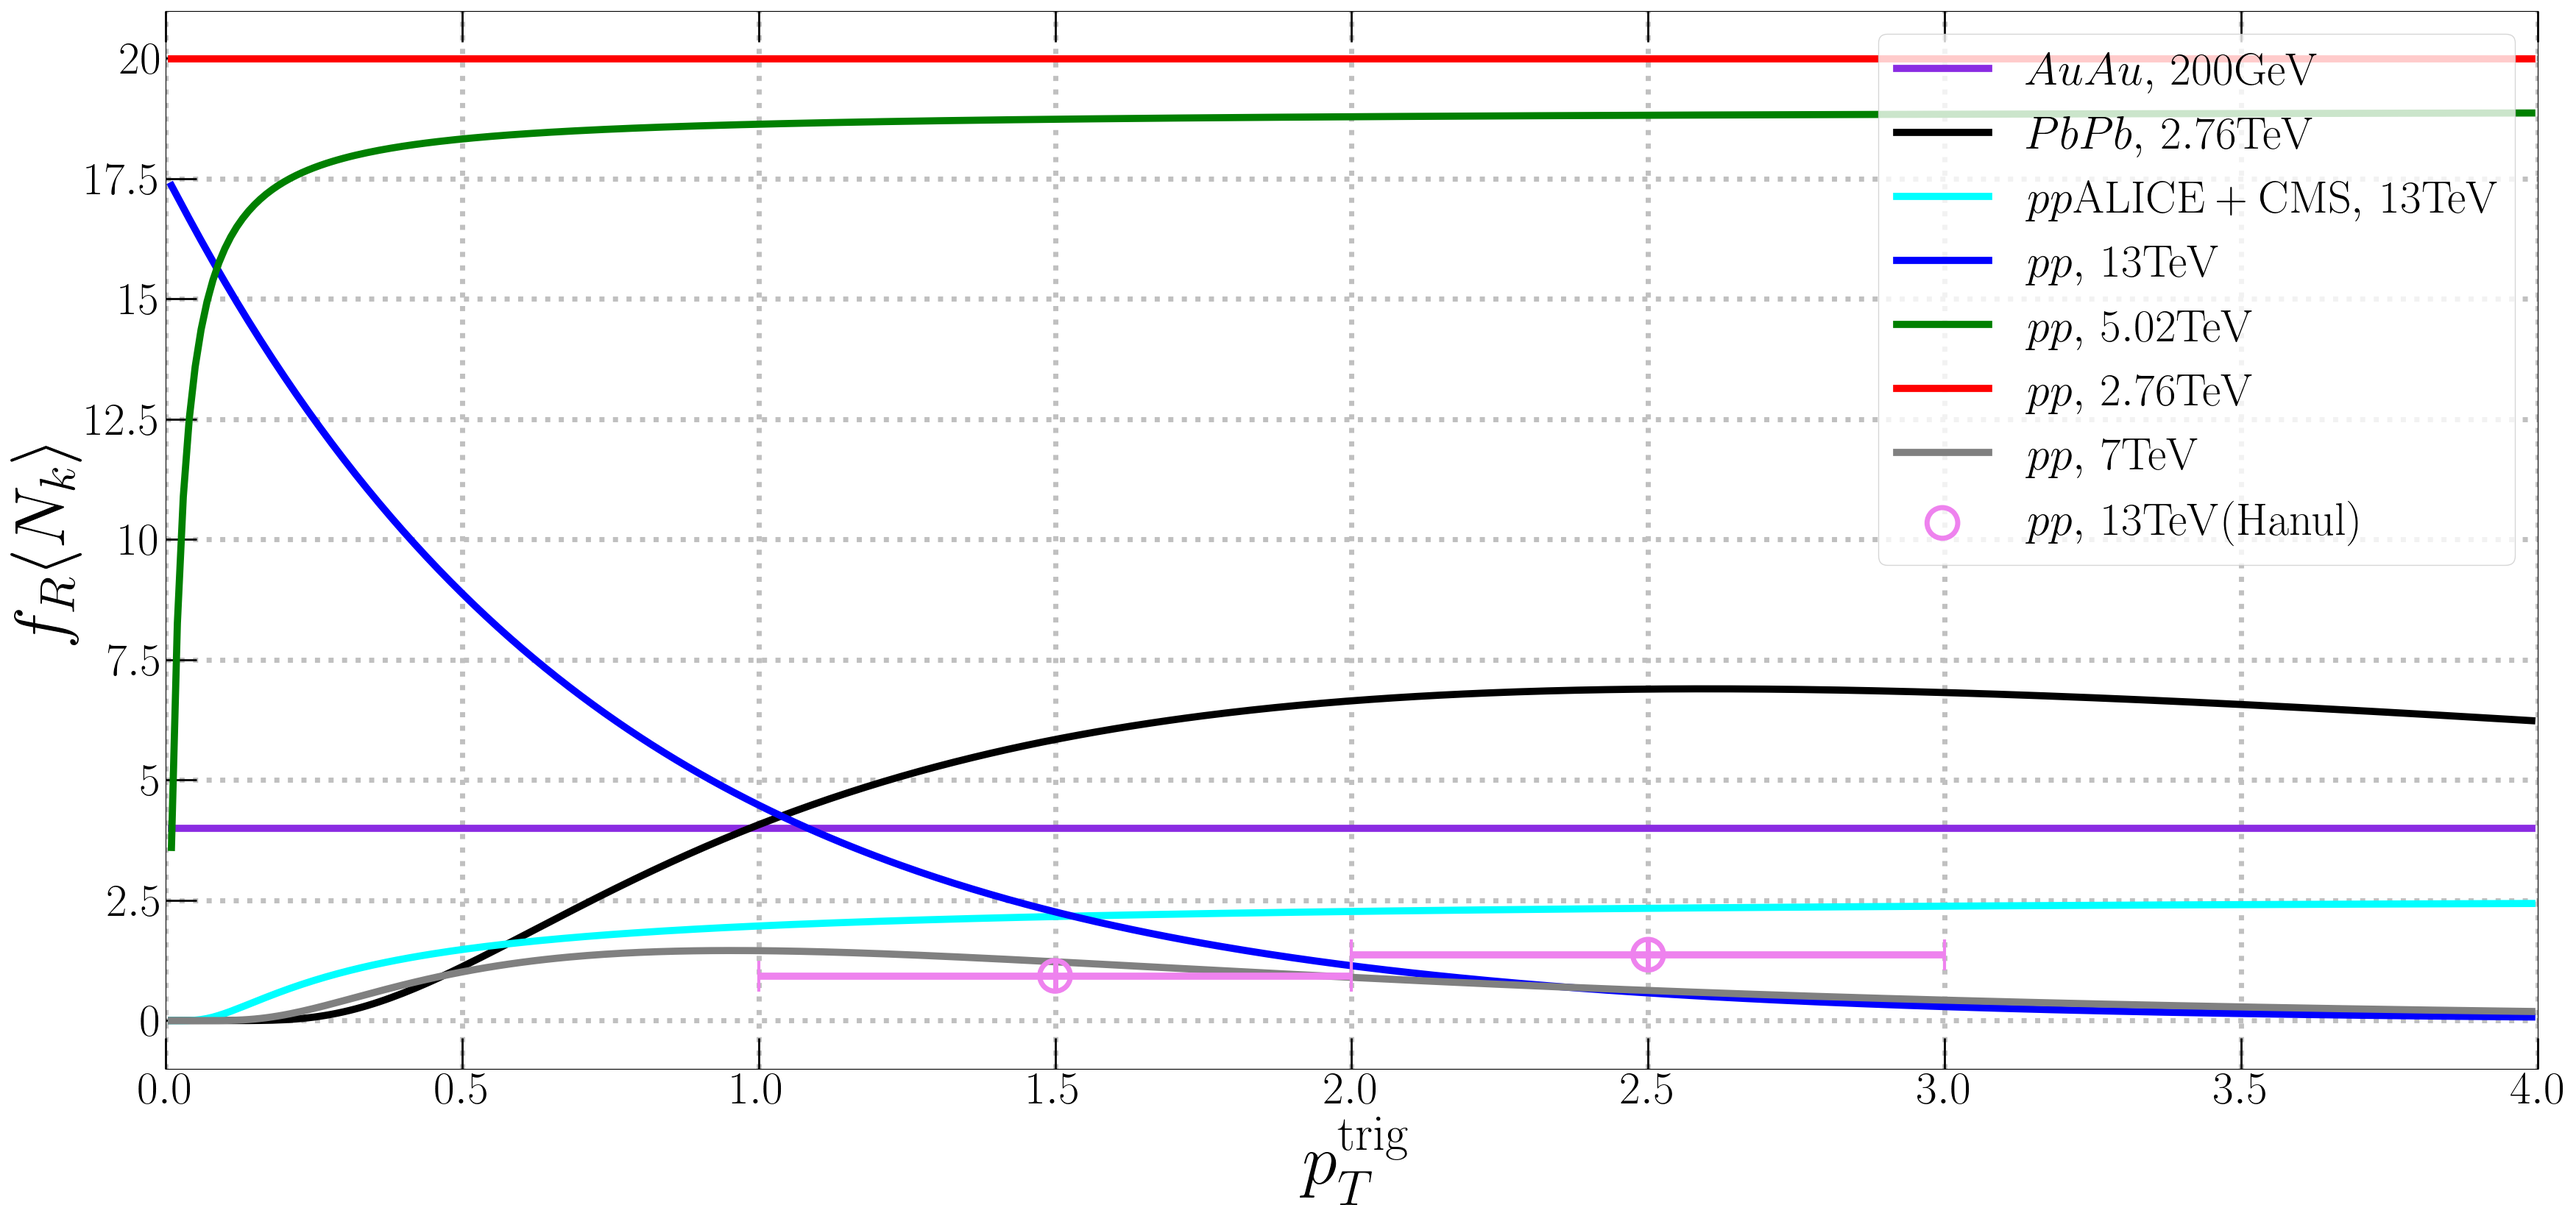
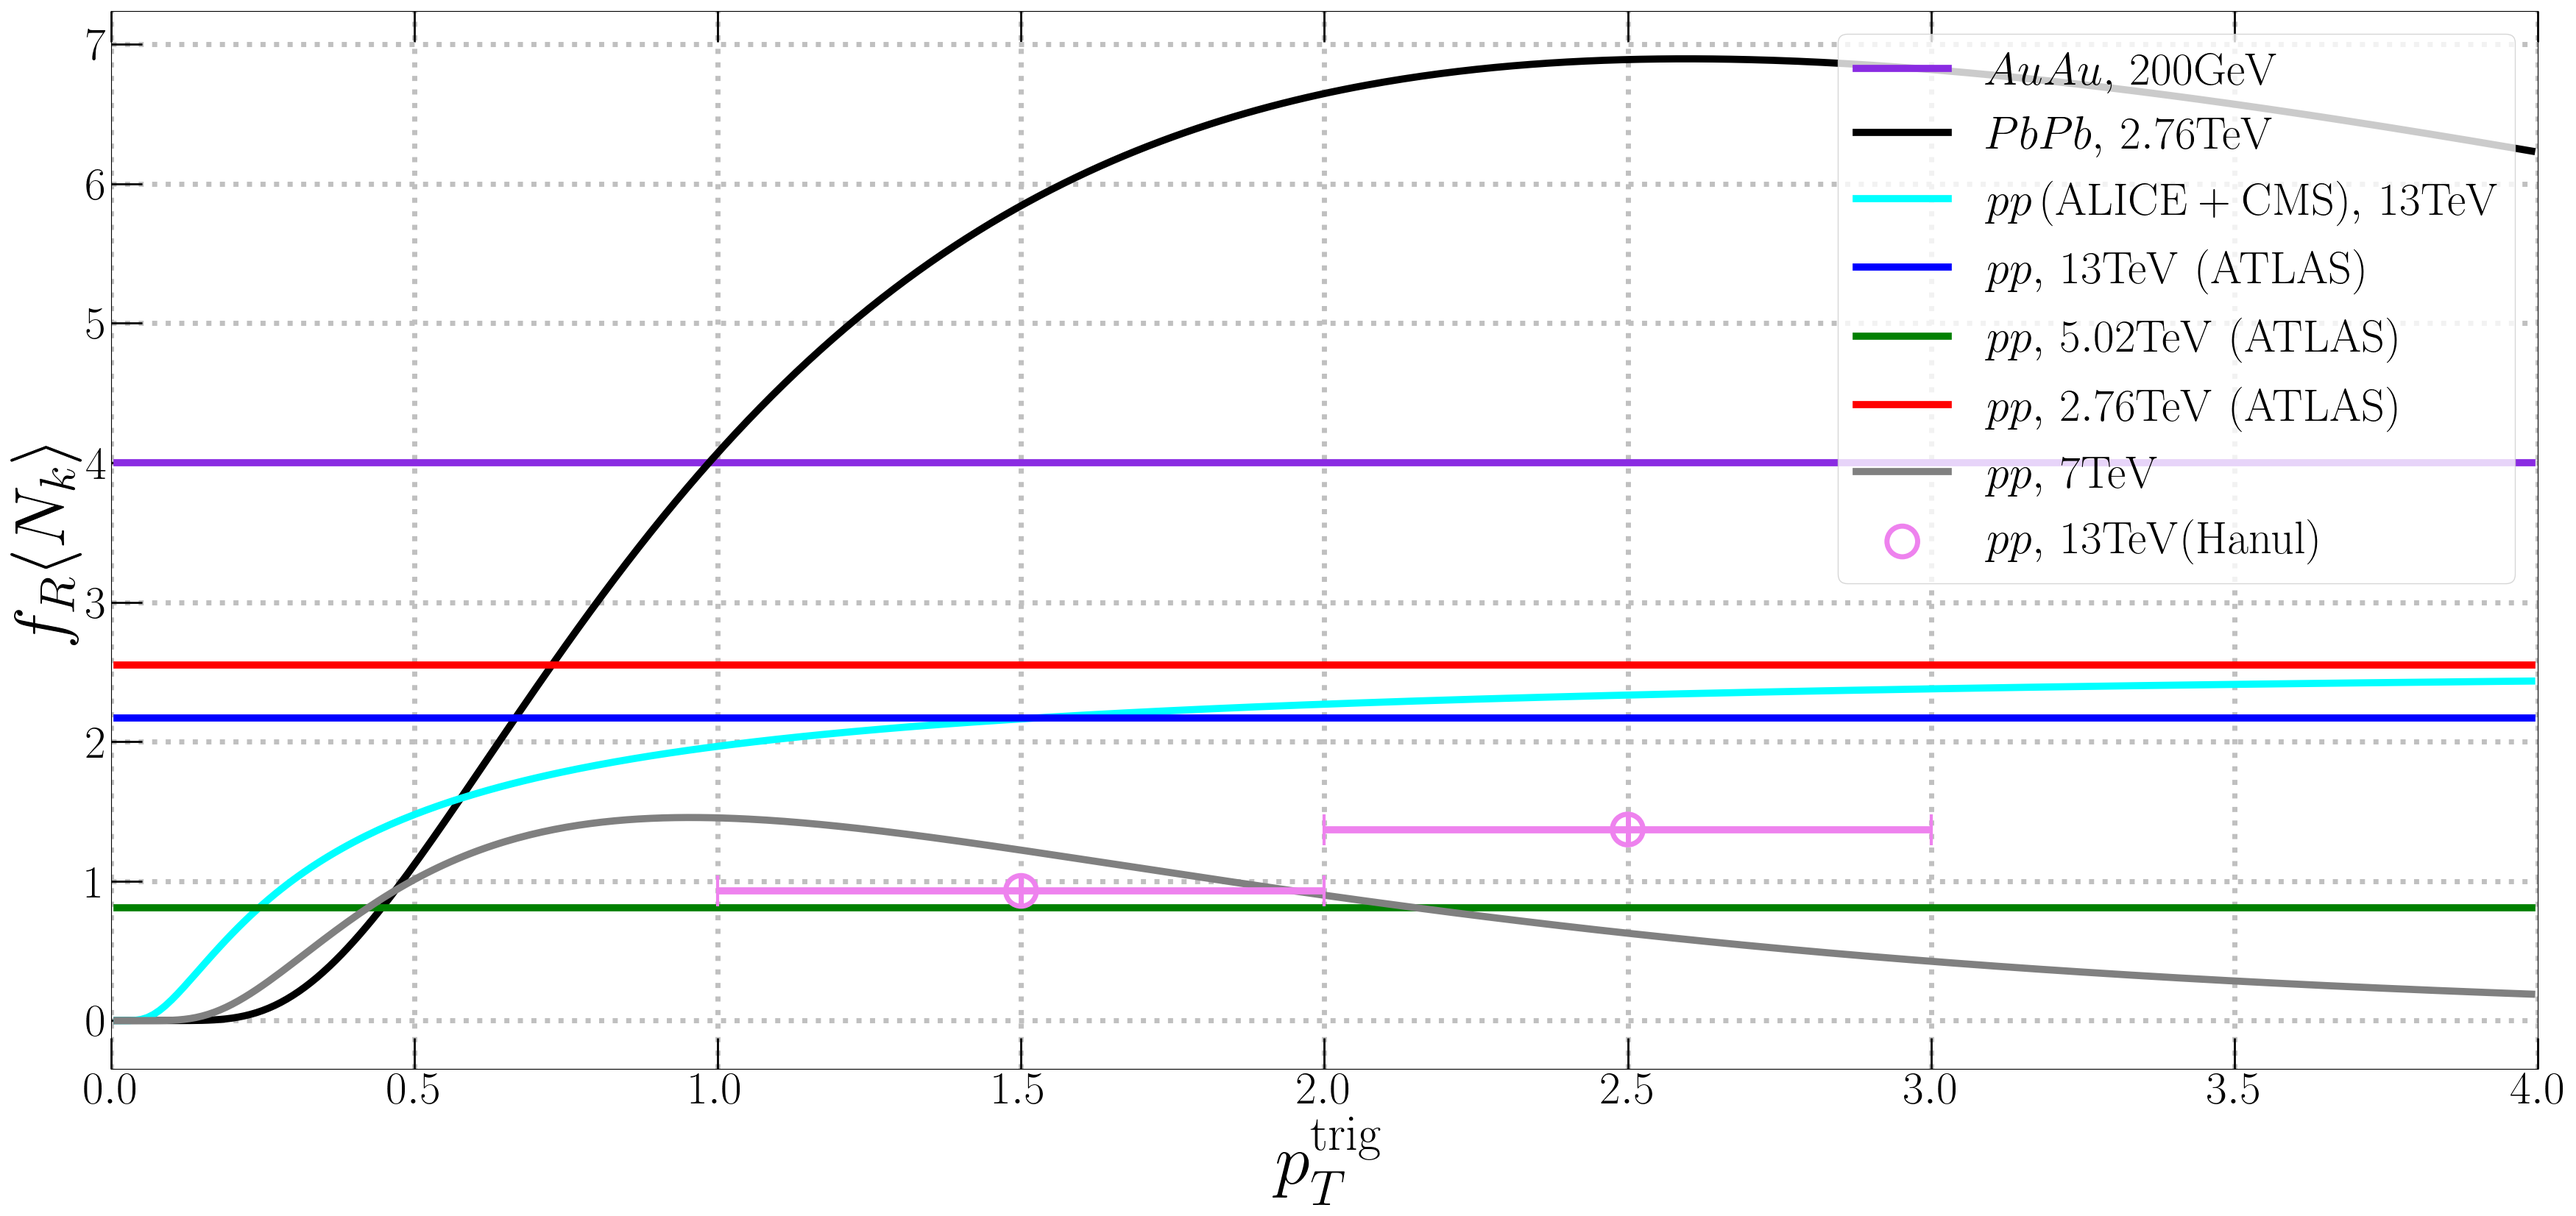
ATLAS의  fRNk를 상수로 두기
뿐만 아니라, boundary, initial 조정하기

diff --git a/main_class.py b/main_class.py
@@ -221,8 +221,8 @@ def datacut():
             phi_07TeV_ptdep_fitting[i] = phi_07TeV_ptdep_fitting[i][len(phi_07TeV_ptdep_fitting[i])-argmin-1:argmin+1]
 datacut()
 
-total_boundary = ((0., 0., 0, 0, 0),(5, 3., 20, 10, 10))
-total_initial = (1., 0.5, 2, 3, 0)
+total_boundary = ((0.5, .5, 0, 0, 0),(3, 2., 4, 1e-10, 1e-10))
+total_initial = (.7, 1., 1.5, 0, 0)
 '''Fitting 13TeV data'''
 def fit_13tev():
     ptf = [(1, 2), (2, 3), (3, 4), (1, 2), (2, 3), (3, 4)]
@@ -297,12 +297,12 @@ def fit_cmenerg():
 # fit_13tev()
 # fit_7tev()
 # fit_multipl()
-# fit_cmenerg()
+fit_cmenerg()
 
 
-ptdep_result_cm = [np.array([6.50898500e-02, 1.00053422e+00, 1.99918447e+01, 3.15781968e-12, 1.91795188e-28]),
-                   np.array([2.10274974e-01, 6.00607568e-02, 1.89447712e+01, 1.66079658e-02, 1.14899736e-06]), 
-                   np.array([1.00006451e+00, 1.15455510e+00, 1.76066500e+01, 5.72307164e-06, 1.36854475e+00])]
+# ptdep_result_cm = [np.array([6.50898500e-02, 1.00053422e+00, 1.99918447e+01, 3.15781968e-12, 1.91795188e-28]),
+#                    np.array([2.10274974e-01, 6.00607568e-02, 1.89447712e+01, 1.66079658e-02, 1.14899736e-06]), 
+#                    np.array([1.00006451e+00, 1.15455510e+00, 1.76066500e+01, 5.72307164e-06, 1.36854475e+00])]
 
 
 time_calculate = time.time()
@@ -514,10 +514,10 @@ def drawgraph_cmdep_phicorr():
 
     plt.plot(ptf, FrNk_func(ptf, *AuAu_200GeV), color = 'blueviolet', linewidth=7, label=r'$AuAu, \, 200\mathrm{GeV}$')
     plt.plot(ptf, FrNk_func(ptf, *PbPb_276TeV), color = 'black', linewidth=7, label=r'$PbPb, \, 2.76\mathrm{TeV}$')
-    plt.plot(ptf, FrNk_func(ptf, *pp_13TeV_alicms), color = 'cyan', linewidth=7, label=r'$pp \mathrm{ALICE+CMS}, \, 13\mathrm{TeV}$')
-    plt.plot(ptf, FrNk_func(ptf, *pp_13TeV), color = 'blue', linewidth=7, label=r'$pp, \, 13\mathrm{TeV}$')
-    plt.plot(ptf, FrNk_func(ptf, *pp_50TeV), color = 'green', linewidth=7, label=r'$pp, \, 5.02\mathrm{TeV}$')
-    plt.plot(ptf, FrNk_func(ptf, *pp_27TeV), color = 'red', linewidth=7, label=r'$pp, \, 2.76\mathrm{TeV}$')
+    plt.plot(ptf, FrNk_func(ptf, *pp_13TeV_alicms), color = 'cyan', linewidth=7, label=r'$pp \,\mathrm{(ALICE+CMS)}, \, 13\mathrm{TeV}$')
+    plt.plot(ptf, FrNk_func(ptf, *pp_13TeV), color = 'blue', linewidth=7, label=r'$pp, \, 13\mathrm{TeV} \,\,\mathrm{(ATLAS)} $')
+    plt.plot(ptf, FrNk_func(ptf, *pp_50TeV), color = 'green', linewidth=7, label=r'$pp, \, 5.02\mathrm{TeV}\,\,\mathrm{(ATLAS)}$')
+    plt.plot(ptf, FrNk_func(ptf, *pp_27TeV), color = 'red', linewidth=7, label=r'$pp, \, 2.76\mathrm{TeV}\,\,\mathrm{(ATLAS)}$')
     plt.plot(ptf, FrNk_func(ptf, *pp_07TeV), color = 'grey', linewidth=7, label=r'$pp, \, 7\mathrm{TeV}$')
     plt.scatter(Hanul_FrNk[0], Hanul_FrNk[1], edgecolor = 'violet', facecolors='none', s=900, marker='o', linewidths=5, zorder=2, label=r'$pp, \, 13\mathrm{TeV}(\mathrm{Hanul})$')
     plt.scatter(Hanul_FrNk[0], Hanul_FrNk[1], facecolors='violet', s=900, marker='+', linewidths=5, zorder=2)

diff --git a/class_pool.py b/class_pool.py
@@ -123,7 +123,7 @@ class Fitting_gpu:
             if self.mode == "pTdependence":
                 popt, pcov = scipy.optimize.curve_fit(self.fitting_func, xdata = self.phi_array, ydata = self.data, bounds=self.boundary, p0 = self.initial, sigma = error_array, absolute_sigma = True)
             elif self.mode == "Multiplicity":
-                popt, pcov = scipy.optimize.curve_fit(self.fitting_func__multi, xdata = self.phi_array, ydata = self.data, bounds=self.boundary, p0 = self.initial, sigma = error_array, absolute_sigma = True)
+                popt, pcov = scipy.optimize.curve_fit(self.fitting_func_multi, xdata = self.phi_array, ydata = self.data, bounds=self.boundary, p0 = self.initial, sigma = error_array, absolute_sigma = True)
             elif self.mode == "CMenergy":
                 popt, pcov = scipy.optimize.curve_fit(self.fitting_func, xdata = self.phi_array, ydata = self.data, bounds=self.boundary, p0 = self.initial, sigma = error_array, absolute_sigma = True)
             elif self.mode == "Both":
@@ -135,7 +135,7 @@ class Fitting_gpu:
         return popt, np.sqrt(np.diag(pcov))
 
     #   fitting parameters : kick, Tem, xx, yy, AA, BB
-    def fitting_func__multi(self, phi_dist, kick, Tem, xx, yy, AA, BB):
+    def fitting_func_multi(self, phi_dist, kick, Tem, xx, yy, AA, BB):
         phi_array = phi_dist.reshape((self.Number_of_Array,-1))
         phi_array = []
         for i in range(self.Number_of_Array):
@@ -196,6 +196,7 @@ class Fitting_gpu:
         if self.ptdis_number is None and self.array_length == 1:
             ''' CM energy dependence'''            
             deltapt = self.ptf[0][1] - self.ptf[0][0]
+            yy = zz = 0
             result_dist = deltapt*self.__ptdep(phi_array, self.etaf[0], self.ptf[0], Aridge, kick, Tem, xx, yy, zz)
             result = result_dist - min(result_dist)
             self.__count = self.__count + 1
